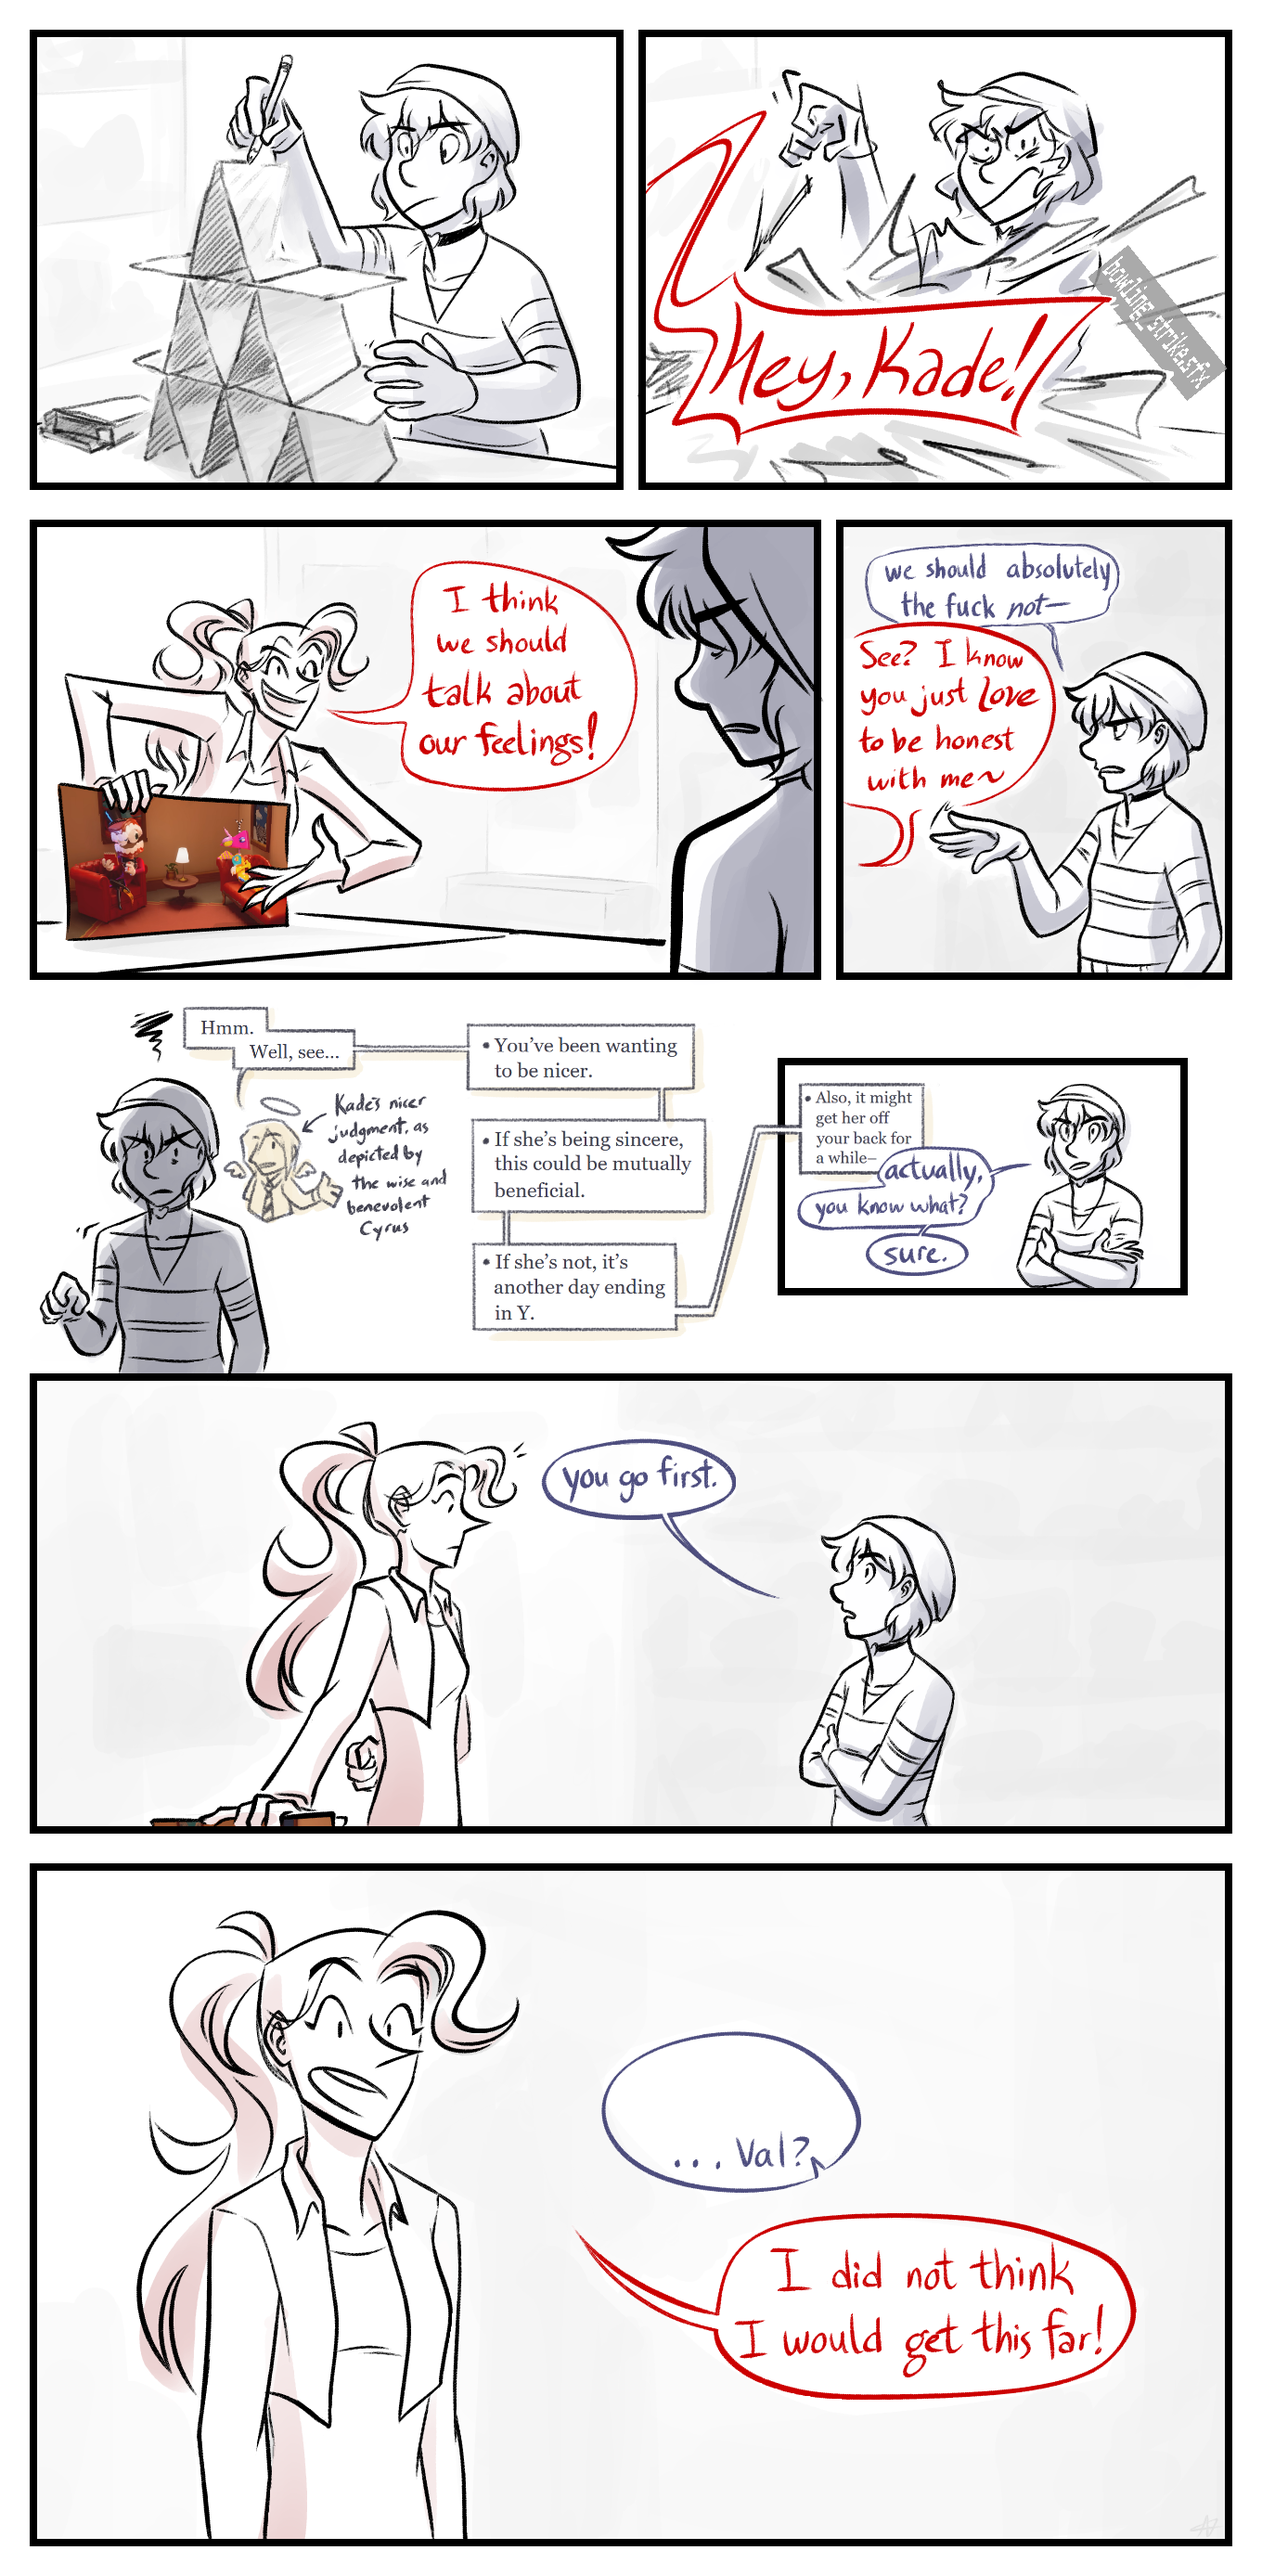
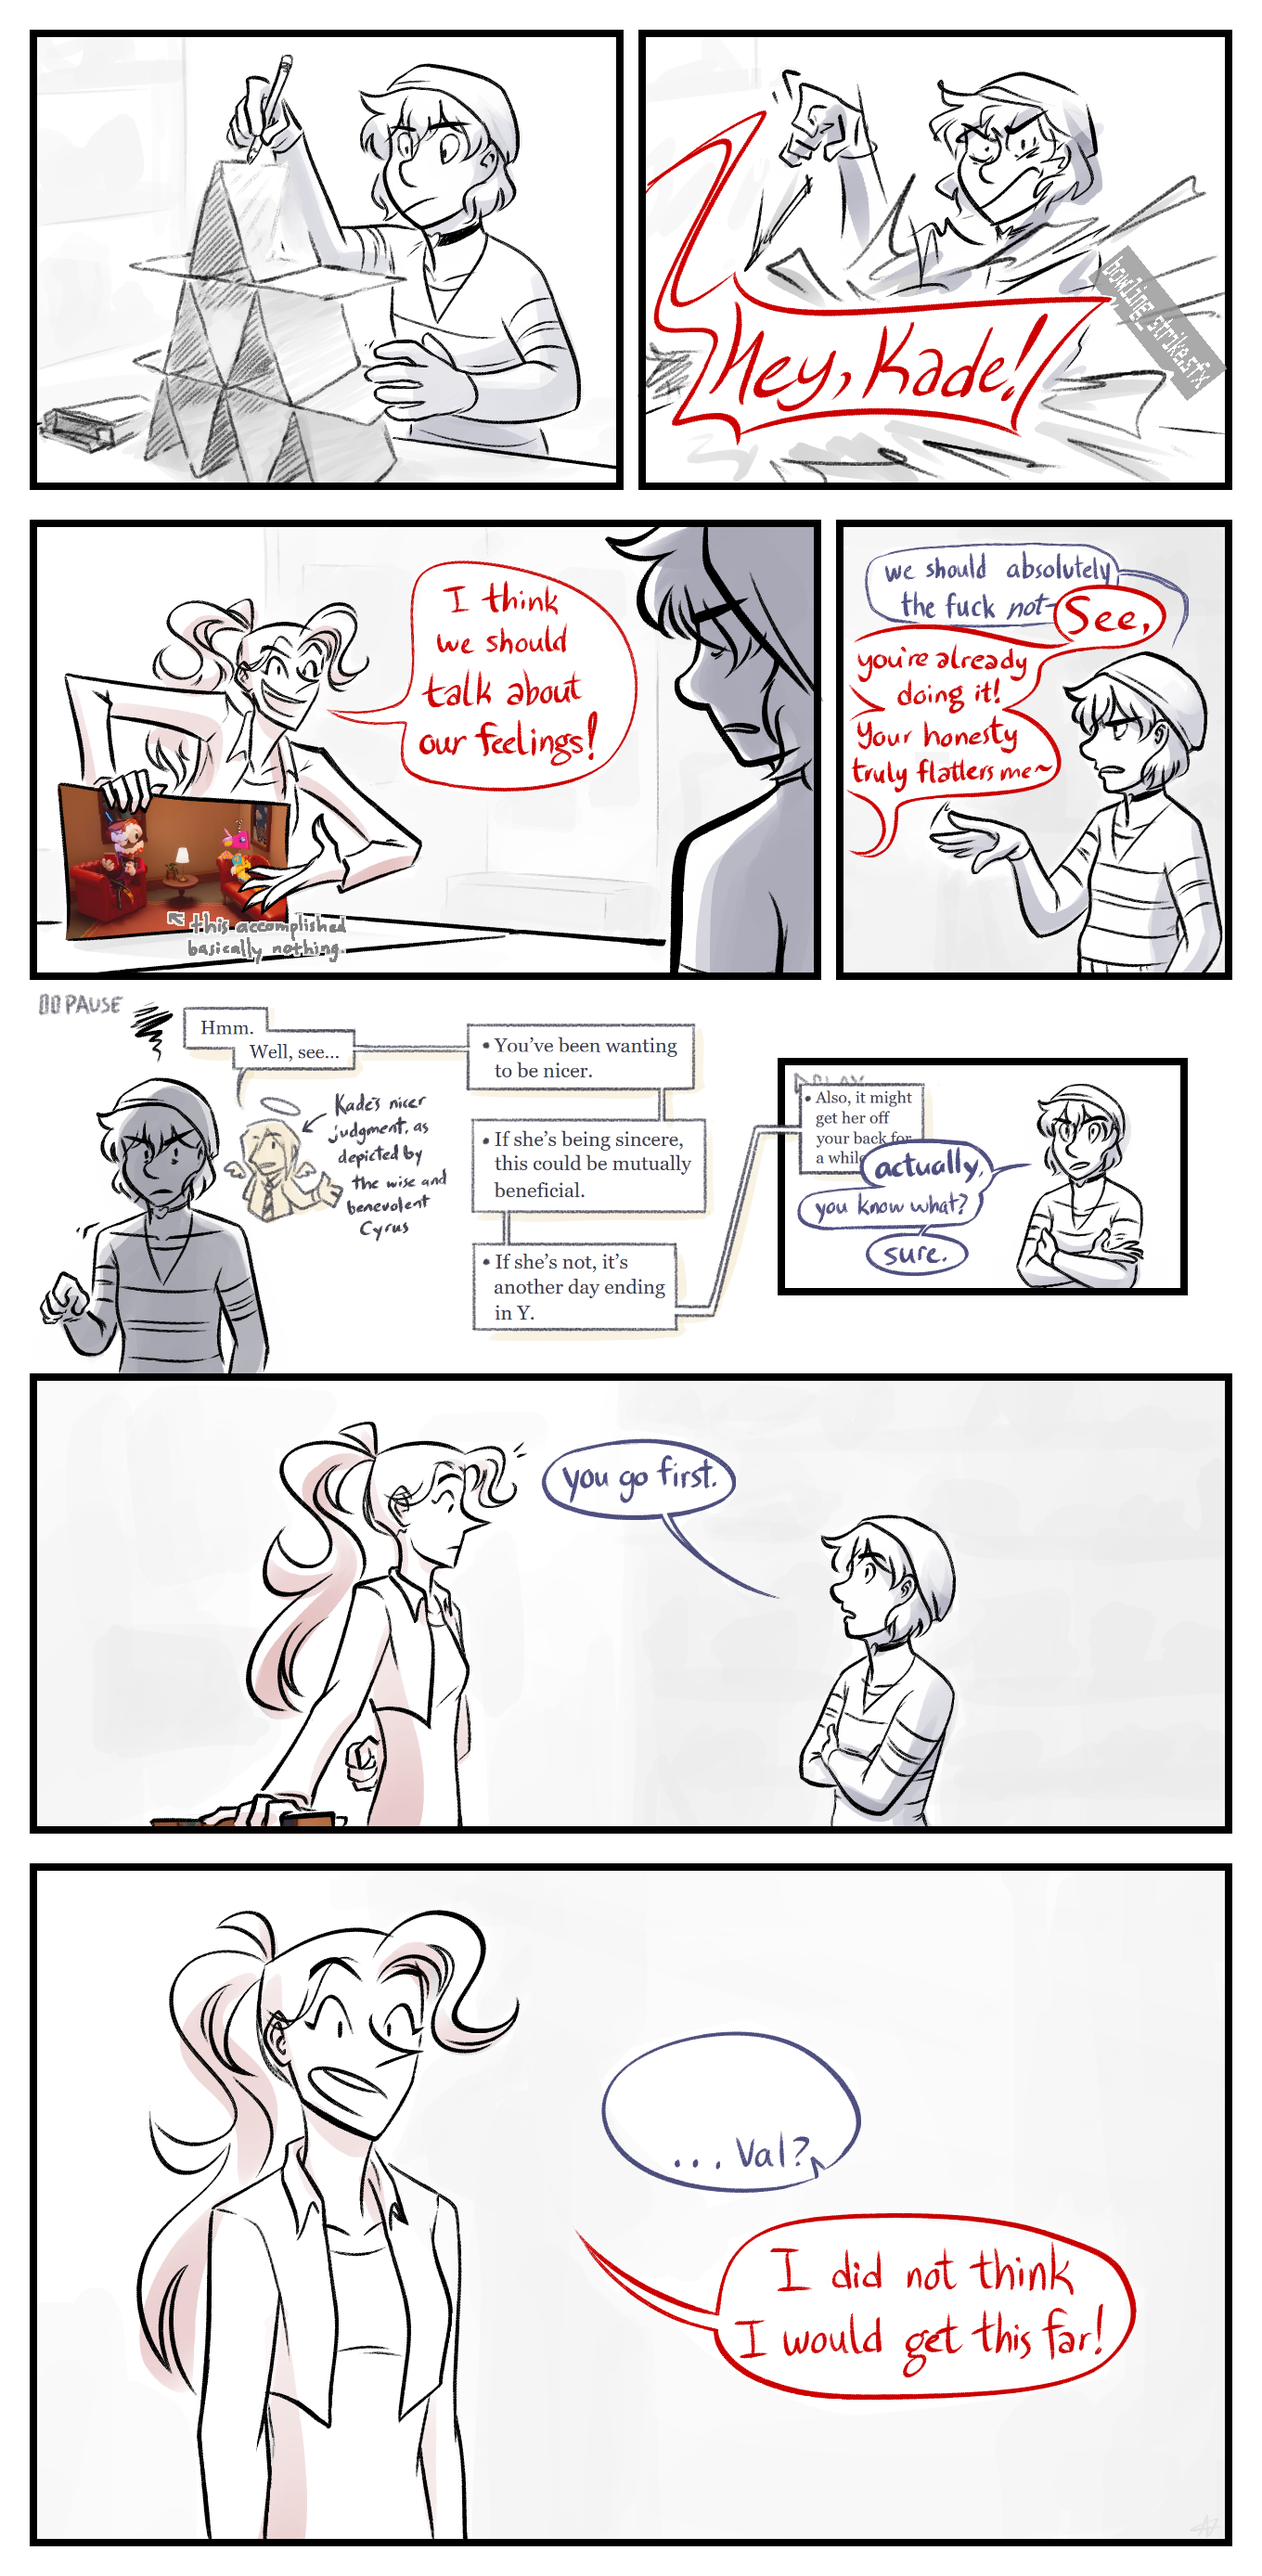
art/tad404: actual art fixes

diff --git a/_art/08-05_tad404.html b/_art/08-05_tad404.html
@@ -63,17 +63,18 @@ Follow-ups to [this doodle](movie-day), sort of. Check that one out first!
 <i>[2 is making a house of cards.]</i>  
 <span class="s1"><b>1</b>: Hey, Kade!</span> <i>[The dialogue slams into the cards and 2 flinches. There is a bowling strike sound effect.]</i>
 
-<span class="s1"><b>1, across the table</b>: I think we should talk about our feelings!</span> <i>[She's spotlighting a screenshot from <i>The Amazing Digital Circus</i> episode&nbsp;3, in which Caine does talk therapy.  
-[2 (Kade) is not amused.]</i> <span class="s2"><b>Kade</b>: we should absolutely the fuck *not*---</span>/<span class="s1"><b>1, interrupting</b>: See? I know you just *love* to be honest with me~</span>
+<span class="s1"><b>1, across the table</b>: I think we should talk about our feelings!</span> <i>[She's spotlighting a screenshot from <i>The Amazing Digital Circus</i> episode&nbsp;3, in which Caine does talk therapy. (It accomplished basically nothing.)  
+[2 (Kade) is not amused.]</i> <span class="s2"><b>Kade</b>: we should absolutely the fuck *not*---</span>/<span class="s1"><b>1, interrupting</b>: See, you're already doing it! Your honesty truly flatters me~</span>
 
-<i>[Kade is pissed.]</i> <span class="s2c">"Hmm. Well, see..."</span> <i>says Kade's nicer judgment, as depicted by the wise and benevolent Cyrus:</i>
+<i>[Kade is pissed. A deliberate pause.]</i>  
+<span class="s2c">"Hmm. Well, see..."</span> <i>says Kade's nicer judgment, as depicted by the wise and benevolent Cyrus:</i>
 
 - <span class="s2c">"You've been wanting to be nicer.</span>
 - <span class="s2c">"If she's being sincere, this could be mutually beneficial.</span>
 - <span class="s2c">"If she's not, it's another day ending in Y.</span>
 - <span class="s2c">"Also, it might get her off your back for a while---"</span>
 
-<span class="s2"><b>Kade, aloud</b>: actually, you know what? sure.</span> <i>[Much to 1's surprise,]</i> <span class="s2">you go first.</span>
+<i>[Resuming.]</i> <span class="s2"><b>Kade, aloud</b>: actually, you know what? sure.</span> <i>[Much to 1's surprise,]</i> <span class="s2">you go first.</span>
 
 <i>[A beat.]</i>
 
@@ -97,7 +98,7 @@ Follow-ups to [this doodle](movie-day), sort of. Check that one out first!
 
 <hr>
 
-<section id="cmt"><details OPEn>
+<section id="cmt"><details>
 <summary><div class="wrap"><div class="box">ok now for the obligatory artist commentary<br><i>(this is a dropdown, you may click it)</i></div></div></summary>
 <div id="bla">
 <div class="wrap">

diff --git a/todo.md b/todo.md
@@ -3,10 +3,3 @@
 	- varying layouts/color schemes can also be noted on the index, if I go ahead with this
 - simple javascript click-zoom from /ygbtdm? on #fa mostly, but could be doable on #b3d with some addiitonal CSS fuckery
 - futz with the #fa figcaptions, the white-on-gray is a nice default for everything (Slade's paragraphs can be outside the figure)
-
-# 8/07 tad404 artfixes
-- pixel arrow like the "this is caine" but to val's screenshot in the negative space. "this went poorly." or "this accomplished nothing/very little."
-- "See, you're already doing it! You're always *so* honest with me." (move the interruption bubbles while you're at it?)
-- play/pause on in the corner of the interim panels?
-- missed a line on rudy’s ponytail AND somehow have an extra through the sash
-- also missed his glove on the last panel
